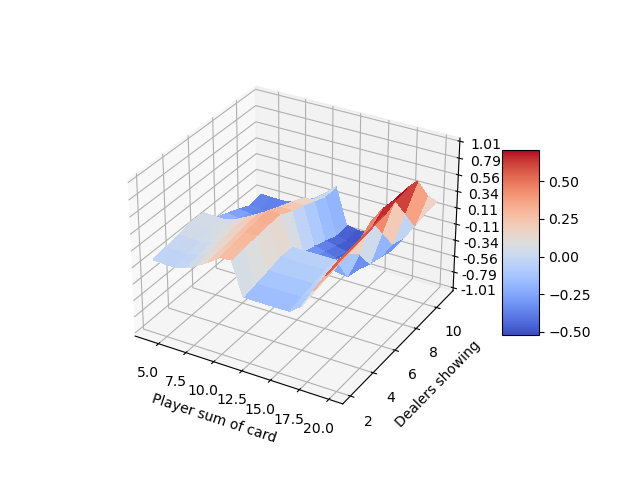
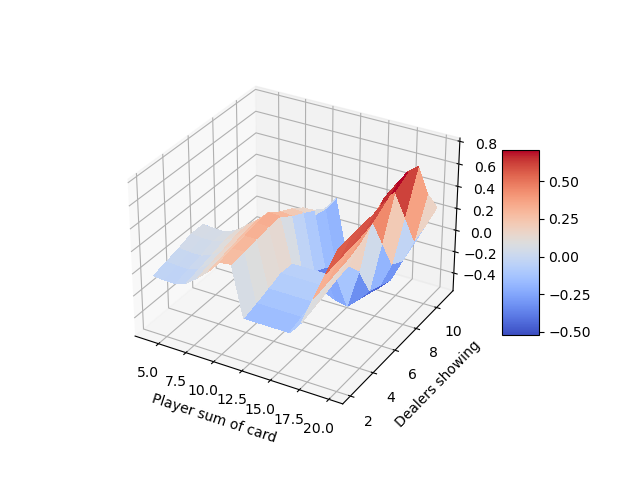
changes

Changed region(s): [[0.1875, 0.2188, 0.7812, 0.6875]]

diff --git a/Wet2/q1.py b/Wet2/q1.py
@@ -15,6 +15,42 @@ class BlackJack:
         self.n_ys = 10
         self.n_states = self.n_xs * self.n_ys + 1
 
+    def plot_value_func(self, value_func, fig):
+        ax = fig.gca(projection='3d')
+
+        X = np.arange(4, 21, 1)
+        Y = np.arange(2, 12, 1)
+        X, Y = np.meshgrid(X, Y)
+        Z = np.zeros(list(np.shape(X)))
+        for i in range(np.shape(X)[0]):
+            for j in range(np.shape(X)[1]):
+                Z[i, j] = value_func[self.x_y_to_ind(X[i, j], Y[i, j])]
+
+        surf = ax.plot_surface(X, Y, Z, cmap=cm.coolwarm, linewidth=0, antialiased=False)
+        # Add a color bar which maps values to colors.
+        fig.colorbar(surf, shrink=0.5, aspect=5)
+
+        ax.set_xlabel('Player sum of card')
+        ax.set_ylabel('Dealers showing')
+        ax.set_zlabel('value function')
+
+    def plot_policy(self, policy):
+        max_hit_policy = np.full(self.n_ys, self.n_xs)
+        for y in range(self.n_ys):
+            for x in range(self.n_xs):
+                if policy[self.x_y_to_ind(x + 4, y + 2)] == 0:
+                    max_hit_policy[y] = x
+                    break
+        plt.plot(list(range(2, 2 + self.n_ys)), max_hit_policy + 4)
+        plt.xticks(list(range(2, 2 + self.n_ys)), list(range(2, 2 + self.n_ys)))
+        plt.ylim(top=20, bottom=4)
+        plt.xlim(right=11, left=2)
+        plt.fill_between(list(range(2, 2 + self.n_ys)), max_hit_policy + 4, np.zeros(self.n_ys), color='g')
+        plt.fill_between(list(range(2, 2 + self.n_ys)), max_hit_policy + 4, np.full(self.n_ys, self.n_xs + 5),
+                         color='r')
+        plt.text(6, 8, "Hit", size=20)
+        plt.text(6, 18, "Stick", size=20)
+
     def ind_to_x_y(self, state):
         y = int(state / self.n_xs + 2)
         x = state - (y - 2) * self.n_xs + 4
@@ -26,10 +62,8 @@ class BlackJack:
         return (y - 2) * self.n_xs + x - 4
 
     def get_dealer_prob(self, y, stopy):
-        if y >= 17:
-            # The dealer stops
-            if stopy > 21:
-                # We don't care about the exact value, the dealer is losing in this scenario
+        if y >= 17:  # The dealer stops
+            if stopy > 21:  # the dealer is losing in this scenario
                 return y > 21
             return y == stopy
         tot_prob = 0
@@ -67,9 +101,9 @@ class BlackJack:
         curr_policy = np.zeros(self.n_states)
         next_value = np.zeros(self.n_states)
 
-        iter = 1
-        while iter <= max_num_iter:
-            iter += 1
+        iteration = 1
+        while iteration <= max_num_iter:
+            iteration += 1
             for s in range(self.n_states - 1):
                 r_exp_stick = self.get_r_exp_on_stick(s)
                 r_exp_hit = self.get_r_exp_on_hit(s, curr_value)
@@ -80,48 +114,12 @@ class BlackJack:
             curr_value = next_value.copy()
         return curr_value, curr_policy
 
-    def plot_value_func(self, value_func, fig):
 
-        ax = fig.gca(projection='3d')
-
-        X = np.arange(4, 21, 1)
-        Y = np.arange(2, 12, 1)
-        X, Y = np.meshgrid(X, Y)
-        Z = np.zeros(list(np.shape(X)))
-        for i in range(np.shape(X)[0]):
-            for j in range(np.shape(X)[1]):
-                Z[i, j] = value_func[self.x_y_to_ind(X[i, j], Y[i, j])]
-
-        surf = ax.plot_surface(X, Y, Z, cmap=cm.coolwarm, linewidth=0, antialiased=False)
-
-        # Customize the z axis.
-        ax.set_zlim(-1.01, 1.01)
-        ax.zaxis.set_major_locator(LinearLocator(10))
-        ax.zaxis.set_major_formatter(FormatStrFormatter('%.02f'))
-
-        # Add a color bar which maps values to colors.
-        fig.colorbar(surf, shrink=0.5, aspect=5)
-
-        ax.set_xlabel('Player sum of card')
-        ax.set_ylabel('Dealers showing')
-        ax.set_zlabel('value function')
-
-    def plot_policy(self, policy):
-        max_hit_policy = np.full(self.n_ys, self.n_xs)
-        for y in range(self.n_ys):
-            for x in range(self.n_xs):
-                if policy[self.x_y_to_ind(x + 4, y + 2)] == 0:
-                    max_hit_policy[y] = x
-                    break
-        plt.plot(list(range(2, 2 + self.n_ys)), max_hit_policy + 4)
-        plt.xticks(list(range(2, 2 + self.n_ys)), list(range(2, 2 + self.n_ys)))
-        plt.ylim(top=20, bottom=4)
-        plt.xlim(right=11, left=2)
-        plt.fill_between(list(range(2, 2 + self.n_ys)), max_hit_policy + 4, np.zeros(self.n_ys), color='g')
-        plt.fill_between(list(range(2, 2 + self.n_ys)), max_hit_policy + 4, np.full(self.n_ys, self.n_xs + 5),
-                         color='r')
-        plt.text(6, 8, "Hit", size=20)
-        plt.text(6, 18, "Stick", size=20)
+def create_pixel_files(directory, optimal_value, optim_policy):
+    with open(directory + 'value_function.pickle', 'wb') as handle:
+        pickle.dump(optimal_value, handle, protocol=pickle.HIGHEST_PROTOCOL)
+    with open(directory + 'policy.pickle', 'wb') as handle:
+        pickle.dump(optim_policy, handle, protocol=pickle.HIGHEST_PROTOCOL)
 
 
 if __name__ == '__main__':
@@ -129,24 +127,20 @@ if __name__ == '__main__':
     game = BlackJack()
 
     # creating value_function and policy pickle files
-
     optimal_val, optimal_policy = game.value_iteration(50)
-    # with open(results_dir + 'value_function.pickle', 'wb') as handle:
-    #     pickle.dump(optimal_val, handle, protocol=pickle.HIGHEST_PROTOCOL)
-    # with open(results_dir + 'policy.pickle', 'wb') as handle:
-    #     pickle.dump(optimal_policy, handle, protocol=pickle.HIGHEST_PROTOCOL)
+    # create_pixel_files(results_dir, optimal_val, optimal_policy)
 
     # section b
+    fig = plt.figure()
     with open(results_dir + 'value_function.pickle', 'rb') as handle:
         value = pickle.load(handle)
-        fig = plt.figure()
         game.plot_value_func(value, fig)
         # plt.show()
         plt.savefig(results_dir + 'Q1_value_function.png')
 
     # section c
+    fig = plt.figure()
     with open(results_dir + 'policy.pickle', 'rb') as handle:
         policy = pickle.load(handle)
-        fig = plt.figure()
         game.plot_policy(policy)
         plt.savefig(results_dir + 'Q1_policy.png')

diff --git a/Wet2/q2.py b/Wet2/q2.py
@@ -9,20 +9,7 @@ class Cmu:
         self.N = len(costs)
         self.n_states = 2 ** self.N
 
-    def _get_binary_state(self, state):
-        b_str = np.binary_repr(state, self.N)
-        b_list = [int(c) for c in b_str]
-        return np.asarray(b_list)
-
-    def _calc_state_cost(self, state_b):
-        total_cost = 0
-        for i in range(self.N):
-            if state_b[i]:
-                # this means that the i'th job is still waiting in the queue
-                total_cost += self.costs[i]
-        return total_cost
-
-    def _bellman_equation_one_step(self, action, curr_val, state):
+    def _bel_eq_one_step(self, action, curr_val, state):
         next_state_val_exp = 0
         b_start_state = self._get_binary_state(state)
         job = action
@@ -37,12 +24,21 @@ class Cmu:
         next_state_val_exp += curr_val[next_state_2_int] * self.probs[job]
         return -self._calc_state_cost(self._get_binary_state(state)) + next_state_val_exp
 
+    def _get_binary_state(self, state):
+        binary_state_list = [int(c) for c in np.binary_repr(state, self.N)]
+        return np.asarray(binary_state_list)
+
+    def _calc_state_cost(self, state_b):
+        total_cost = [self.costs[i] for i in range(self.N) if state_b[i]]  # sum only if job is still in the queue
+        total_cost = sum(total_cost)
+        return total_cost
+
     def policy_eval(self, policy):
         curr_val = np.zeros(self.n_states)
         next_val = np.zeros(self.n_states)
         while True:
             for i in range(1, self.n_states):
-                next_val[i] = self._bellman_equation_one_step(policy[i], curr_val, i)
+                next_val[i] = self._bel_eq_one_step(policy[i], curr_val, i)
             if np.array_equal(curr_val, next_val):
                 return curr_val
             curr_val = next_val.copy()
